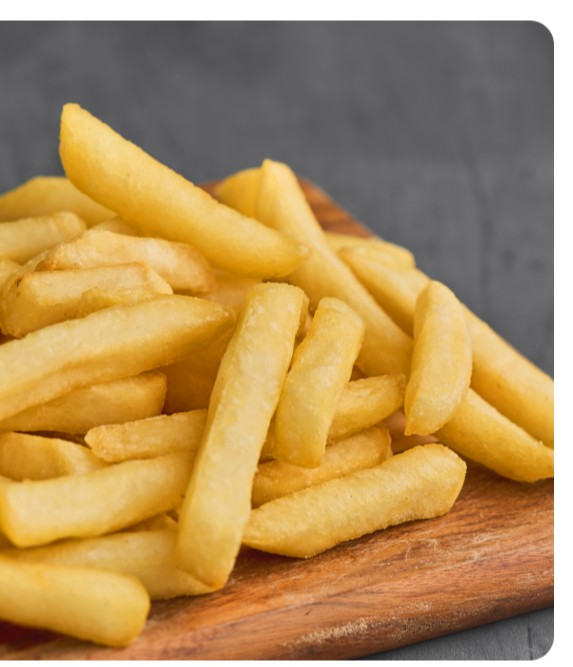
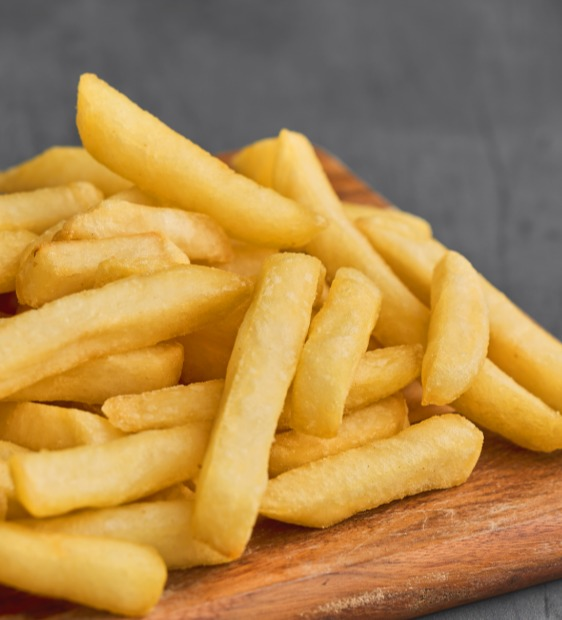
Remove Steakhouse Chips Coated, fix 10mm Fries photo
Drops the Steakhouse Chips Coated product and all references to it
(cards, footer links, dropdown, stats, copy) now that the catalog is
Golden Fries only. Re-crops the 10mm Fries photo tighter to remove
a rounded-corner artifact and stray carousel dots that were caught
in the original crop.

Claude-Session: https://claude.ai/code/session_012WaiSLCFVxPVhMsaJ5QFi7

diff --git a/products.html b/products.html
@@ -4,7 +4,7 @@
 <meta charset="UTF-8" />
 <meta name="viewport" content="width=device-width, initial-scale=1.0" />
 <title>Products &amp; Services | Direct Food Distribution</title>
-<meta name="description" content="Browse the frozen chip range and services offered by Direct Food Distribution, including Golden Fries cuts and our own Steakhouse Chips Coated." />
+<meta name="description" content="Browse the frozen chip range and services offered by Direct Food Distribution, supplied through our partnership with Golden Fries." />
 <link rel="icon" type="image/x-icon" href="images/favicon.ico" />
 <link rel="icon" type="image/png" sizes="32x32" href="images/favicon-32.png" />
 <link rel="apple-touch-icon" href="images/favicon-180.png" />
@@ -53,29 +53,10 @@
       <div class="section-head center">
         <span class="eyebrow">Our Range</span>
         <h2>What we distribute</h2>
-        <p>Frozen chips supplied through our partnership with Golden Fries, plus our own Steakhouse Chips Coated — with more added as we grow.</p>
+        <p>Frozen chips supplied through our partnership with Golden Fries — with more added as we grow.</p>
       </div>
 
       <div class="grid grid-3">
-        <a href="products/steakhouse-chips-coated.html" class="product-card">
-          <div class="product-thumb thumb-4" aria-hidden="true">
-            <svg viewBox="0 0 24 24" fill="none" stroke="currentColor" stroke-width="1.8" stroke-linecap="round" stroke-linejoin="round"><path d="M8 21V9a1.5 1.5 0 0 1 3 0v12" /><path d="M12 21V7a1.5 1.5 0 0 1 3 0v14" /><path d="M16 21V10a1.5 1.5 0 0 1 3 0v11" /><path d="M5 21h15" /></svg>
-          </div>
-          <div class="body">
-            <span class="cook-time">
-              <svg width="14" height="14" viewBox="0 0 24 24" fill="none" stroke="currentColor" stroke-width="2"><circle cx="12" cy="12" r="9"/><path d="M12 7v5l3 3"/></svg>
-              3–4 Mins
-            </span>
-            <h3>Steakhouse Chips Coated</h3>
-            <p>A more substantial bite — perfect balance of thickness and crunch. Gluten-free and stays crispy.</p>
-            <div class="tag-list">
-              <span class="tag">Gluten-Free</span>
-              <span class="tag">Coated</span>
-              <span class="tag">Thick Cut</span>
-            </div>
-          </div>
-        </a>
-
         <a href="products/7mm-fries.html" class="product-card">
           <div class="product-thumb">
             <img src="images/products/7mm-fries.jpg" alt="7mm Fries" />
@@ -272,7 +253,7 @@
       <div class="footer-col">
         <h5>Products</h5>
         <ul>
-          <li><a href="products/steakhouse-chips-coated.html">Steakhouse Chips Coated</a></li>
+          <li><a href="products/7mm-fries.html">7mm Fries</a></li>
           <li><a href="products/10mm-fries.html">10mm Fries</a></li>
           <li><a href="products/steak-fries.html">Steak Fries</a></li>
           <li><a href="products.html">View Full Range</a></li>

diff --git a/index.html b/index.html
@@ -4,7 +4,7 @@
 <meta charset="UTF-8" />
 <meta name="viewport" content="width=device-width, initial-scale=1.0" />
 <title>Direct Food Distribution | Reliable Wholesale Food Supply</title>
-<meta name="description" content="Direct Food Distribution supplies restaurants, retailers, and institutions with quality frozen food products, including our Steakhouse Chips Coated — reliably and on time." />
+<meta name="description" content="Direct Food Distribution supplies restaurants, retailers, and institutions with quality frozen chips through our partnership with Golden Fries — reliably and on time." />
 <link rel="icon" type="image/x-icon" href="images/favicon.ico" />
 <link rel="icon" type="image/png" sizes="32x32" href="images/favicon-32.png" />
 <link rel="apple-touch-icon" href="images/favicon-180.png" />
@@ -61,7 +61,7 @@
           <span class="label">Businesses supplied regionally</span>
         </div>
         <div class="stat-card">
-          <span class="num">6</span>
+          <span class="num">5</span>
           <span class="label">Chip varieties</span>
         </div>
         <div class="stat-card">
@@ -126,13 +126,13 @@
       </div>
 
       <div class="grid grid-3">
-        <a href="products/steakhouse-chips-coated.html" class="product-card">
-          <div class="product-thumb thumb-4" aria-hidden="true">
-            <svg viewBox="0 0 24 24" fill="none" stroke="currentColor" stroke-width="1.8" stroke-linecap="round" stroke-linejoin="round"><path d="M8 21V9a1.5 1.5 0 0 1 3 0v12" /><path d="M12 21V7a1.5 1.5 0 0 1 3 0v14" /><path d="M16 21V10a1.5 1.5 0 0 1 3 0v11" /><path d="M5 21h15" /></svg>
+        <a href="products/7mm-fries.html" class="product-card">
+          <div class="product-thumb">
+            <img src="images/products/7mm-fries.jpg" alt="7mm Fries" />
           </div>
           <div class="body">
-            <h3>Steakhouse Chips Coated</h3>
-            <p>Gluten-free, thick-cut coated chips that stay crispy — cook time just 3–4 minutes.</p>
+            <h3>7mm Fries</h3>
+            <p>Shoestring cut, the longest chip and the fastest cooking — ready in just 2–3 minutes.</p>
           </div>
         </a>
         <a href="products/10mm-fries.html" class="product-card">
@@ -231,7 +231,7 @@
       <div class="footer-col">
         <h5>Products</h5>
         <ul>
-          <li><a href="products/steakhouse-chips-coated.html">Steakhouse Chips Coated</a></li>
+          <li><a href="products/7mm-fries.html">7mm Fries</a></li>
           <li><a href="products/10mm-fries.html">10mm Fries</a></li>
           <li><a href="products/steak-fries.html">Steak Fries</a></li>
           <li><a href="products.html">View Full Range</a></li>

diff --git a/about.html b/about.html
@@ -57,8 +57,7 @@
           <p style="color:var(--color-text-muted); margin-bottom:16px;">
             Direct Food Distribution was started with a simple goal: make it easier for foodservice
             businesses to get quality frozen food products without the guesswork. We supply a range
-            of frozen chips through our partnership with Golden Fries, alongside our own Steakhouse
-            Chips Coated.
+            of frozen chips through our partnership with Golden Fries.
           </p>
           <p style="color:var(--color-text-muted);">
             Today we support restaurants, grocers, caterers, schools, and other institutions across
@@ -72,7 +71,7 @@
             <span class="label">Businesses served</span>
           </div>
           <div class="mini-stat">
-            <span class="num">6</span>
+            <span class="num">5</span>
             <span class="label">Chip varieties</span>
           </div>
           <div class="mini-stat">
@@ -208,7 +207,7 @@
       <div class="footer-col">
         <h5>Products</h5>
         <ul>
-          <li><a href="products/steakhouse-chips-coated.html">Steakhouse Chips Coated</a></li>
+          <li><a href="products/7mm-fries.html">7mm Fries</a></li>
           <li><a href="products/10mm-fries.html">10mm Fries</a></li>
           <li><a href="products/steak-fries.html">Steak Fries</a></li>
           <li><a href="products.html">View Full Range</a></li>

diff --git a/contact.html b/contact.html
@@ -131,7 +131,6 @@
               <label for="interest">I'm Interested In</label>
               <select id="interest" name="interest">
                 <option value="">Select an option</option>
-                <option value="steakhouse-chips-coated">Steakhouse Chips Coated</option>
                 <option value="7mm-fries">7mm Fries</option>
                 <option value="10mm-fries">10mm Fries</option>
                 <option value="13mm-fries">13mm Fries</option>
@@ -179,7 +178,7 @@
       <div class="footer-col">
         <h5>Products</h5>
         <ul>
-          <li><a href="products/steakhouse-chips-coated.html">Steakhouse Chips Coated</a></li>
+          <li><a href="products/7mm-fries.html">7mm Fries</a></li>
           <li><a href="products/10mm-fries.html">10mm Fries</a></li>
           <li><a href="products/steak-fries.html">Steak Fries</a></li>
           <li><a href="products.html">View Full Range</a></li>

diff --git a/products/10mm-fries.html b/products/10mm-fries.html
@@ -133,7 +133,7 @@
       <div class="footer-col">
         <h5>Products</h5>
         <ul>
-          <li><a href="../products/steakhouse-chips-coated.html">Steakhouse Chips Coated</a></li>
+          <li><a href="../products/13mm-fries.html">13mm Fries</a></li>
           <li><a href="../products/10mm-fries.html">10mm Fries</a></li>
           <li><a href="../products/steak-fries.html">Steak Fries</a></li>
           <li><a href="../products.html">View Full Range</a></li>

diff --git a/products/13mm-fries.html b/products/13mm-fries.html
@@ -132,7 +132,7 @@
       <div class="footer-col">
         <h5>Products</h5>
         <ul>
-          <li><a href="../products/steakhouse-chips-coated.html">Steakhouse Chips Coated</a></li>
+          <li><a href="../products/13mm-fries.html">13mm Fries</a></li>
           <li><a href="../products/10mm-fries.html">10mm Fries</a></li>
           <li><a href="../products/steak-fries.html">Steak Fries</a></li>
           <li><a href="../products.html">View Full Range</a></li>

diff --git a/products/15mm-fries.html b/products/15mm-fries.html
@@ -132,7 +132,7 @@
       <div class="footer-col">
         <h5>Products</h5>
         <ul>
-          <li><a href="../products/steakhouse-chips-coated.html">Steakhouse Chips Coated</a></li>
+          <li><a href="../products/13mm-fries.html">13mm Fries</a></li>
           <li><a href="../products/10mm-fries.html">10mm Fries</a></li>
           <li><a href="../products/steak-fries.html">Steak Fries</a></li>
           <li><a href="../products.html">View Full Range</a></li>

diff --git a/products/7mm-fries.html b/products/7mm-fries.html
@@ -133,7 +133,7 @@
       <div class="footer-col">
         <h5>Products</h5>
         <ul>
-          <li><a href="../products/steakhouse-chips-coated.html">Steakhouse Chips Coated</a></li>
+          <li><a href="../products/13mm-fries.html">13mm Fries</a></li>
           <li><a href="../products/10mm-fries.html">10mm Fries</a></li>
           <li><a href="../products/steak-fries.html">Steak Fries</a></li>
           <li><a href="../products.html">View Full Range</a></li>

diff --git a/products/steak-fries.html b/products/steak-fries.html
@@ -133,7 +133,7 @@
       <div class="footer-col">
         <h5>Products</h5>
         <ul>
-          <li><a href="../products/steakhouse-chips-coated.html">Steakhouse Chips Coated</a></li>
+          <li><a href="../products/13mm-fries.html">13mm Fries</a></li>
           <li><a href="../products/10mm-fries.html">10mm Fries</a></li>
           <li><a href="../products/steak-fries.html">Steak Fries</a></li>
           <li><a href="../products.html">View Full Range</a></li>
